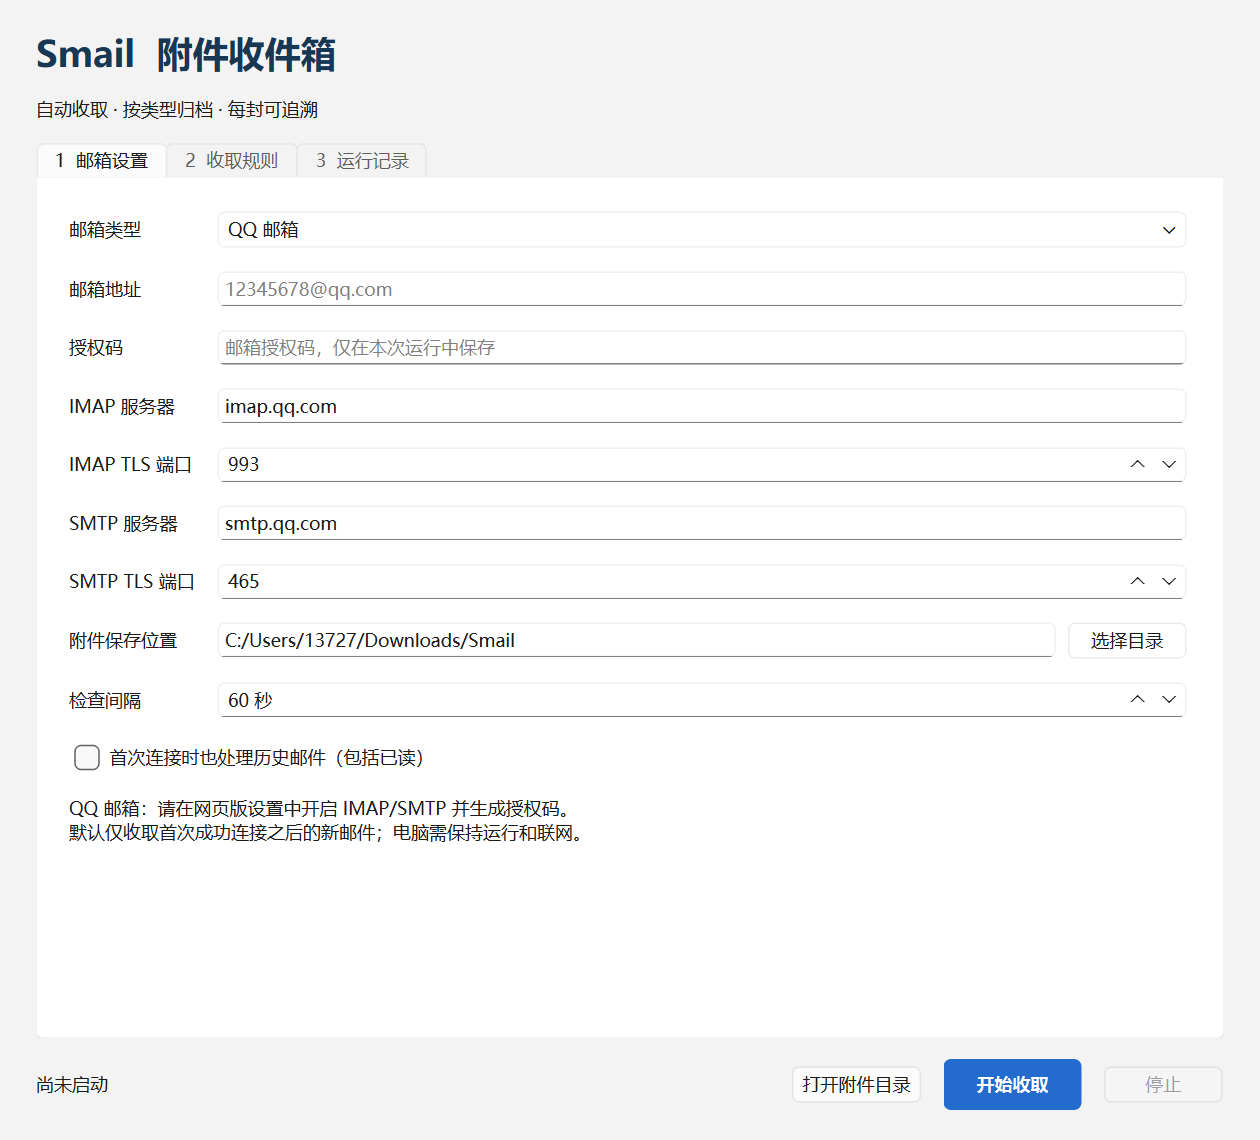
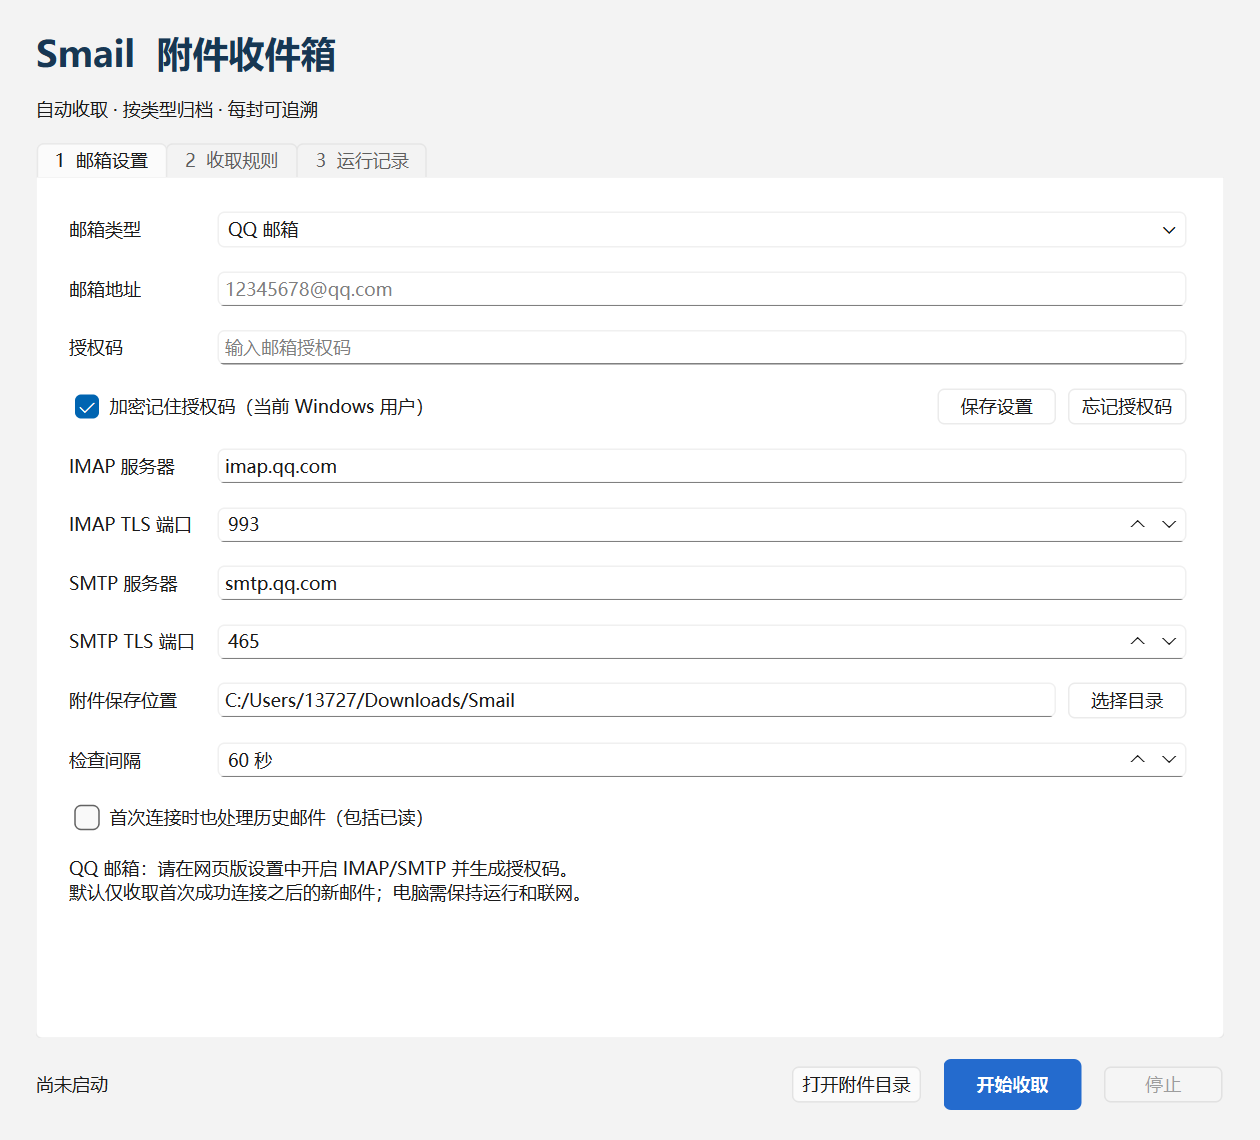
feat(credentials): persist mailbox secrets with user-scoped Windows DPAPI

diff --git a/src/app/MainWindow.cpp b/src/app/MainWindow.cpp
@@ -1,6 +1,7 @@
 #include "smail/MainWindow.h"
 #include "smail/Collector.h"
 #include "smail/Store.h"
+#include "smail/CredentialStore.h"
 #include <QApplication>
 #include <QCheckBox>
 #include <QCloseEvent>
@@ -53,7 +54,15 @@ MainWindow::MainWindow(QString dir) : dataDir(std::move(dir)) {
     form->setContentsMargins(20,20,20,20); form->setSpacing(14);
     provider = new QComboBox; provider->addItems({"QQ 邮箱", "自定义 IMAP / SMTP"});
     email = new QLineEdit; email->setPlaceholderText("12345678@qq.com");
-    secret = new QLineEdit; secret->setEchoMode(QLineEdit::Password); secret->setPlaceholderText("邮箱授权码，仅在本次运行中保存");
+    secret = new QLineEdit; secret->setEchoMode(QLineEdit::Password); secret->setPlaceholderText("输入邮箱授权码");
+    rememberSecret = new QCheckBox("加密记住授权码（当前 Windows 用户）");
+    rememberSecret->setEnabled(CredentialStore::supported());
+    auto *saveSecret = new QPushButton("保存设置");
+    auto *forgetSecret = new QPushButton("忘记授权码");
+    auto *credentialRow = new QWidget; auto *credentialLayout = new QHBoxLayout(credentialRow);
+    credentialLayout->setContentsMargins(0,0,0,0);
+    credentialLayout->addWidget(rememberSecret,1);
+    credentialLayout->addWidget(saveSecret); credentialLayout->addWidget(forgetSecret);
     imap = new QLineEdit; smtp = new QLineEdit; imapPort = spin(1,65535); smtpPort = spin(1,65535);
     output = new QLineEdit; auto *browse = new QPushButton("选择目录");
     auto *folderRow = new QWidget; auto *folderLayout = new QHBoxLayout(folderRow);
@@ -61,6 +70,7 @@ MainWindow::MainWindow(QString dir) : dataDir(std::move(dir)) {
     interval = spin(15,3600); interval->setSuffix(" 秒");
     existing = new QCheckBox("首次连接时也处理历史邮件（包括已读）");
     form->addRow("邮箱类型",provider); form->addRow("邮箱地址",email); form->addRow("授权码",secret);
+    form->addRow(credentialRow);
     form->addRow("IMAP 服务器",imap); form->addRow("IMAP TLS 端口",imapPort);
     form->addRow("SMTP 服务器",smtp); form->addRow("SMTP TLS 端口",smtpPort);
     form->addRow("附件保存位置",folderRow); form->addRow("检查间隔",interval); form->addRow(existing);
@@ -121,6 +131,31 @@ MainWindow::MainWindow(QString dir) : dataDir(std::move(dir)) {
     connect(reply,&QCheckBox::toggled,rejection,&QWidget::setEnabled);
     try { fill(Config::load(dataDir+"/settings.json")); }
     catch (const std::exception &e) { fill(Config{}); appendLog(QString::fromUtf8(e.what())); }
+    loadSecret();
+    // Clear any credential before switching account/server, so it is never
+    // accidentally submitted to a newly configured endpoint.
+    for (auto *field : {email, imap, smtp})
+        connect(field,&QLineEdit::textChanged,this,&MainWindow::loadSecret);
+    for (auto *field : {imapPort, smtpPort})
+        connect(field,&QSpinBox::valueChanged,this,&MainWindow::loadSecret);
+    connect(saveSecret,&QPushButton::clicked,this,[this] {
+        auto c = readConfig();
+        auto error = c.validate();
+        if (output->text().trimmed().isEmpty()) error = "请选择附件保存目录。";
+        if (!error.isEmpty()) { QMessageBox::warning(this,"配置需要调整",error); return; }
+        try {
+            persistSettings(c);
+            appendLog(c.rememberSecret ? "设置已保存，授权码已加密保存" : "设置已保存，授权码仅供本次使用");
+        } catch (const std::exception &e) { QMessageBox::warning(this,"保存失败",QString::fromUtf8(e.what())); }
+    });
+    connect(forgetSecret,&QPushButton::clicked,this,[this] {
+        try {
+            CredentialStore(dataDir+"/credentials").remove(readConfig());
+            secret->clear(); rememberSecret->setChecked(false);
+            readConfig().save(dataDir+"/settings.json");
+            appendLog("已删除当前邮箱的已保存授权码");
+        } catch (const std::exception &e) { QMessageBox::warning(this,"操作失败",QString::fromUtf8(e.what())); }
+    });
     refreshHistory();
 }
 MainWindow::~MainWindow() { if (collector) { collector->requestInterruption(); collector->wait(); } }
@@ -133,6 +168,7 @@ void MainWindow::fill(const Config &c) {
     mimeTypes->setText(c.mimeTypes.join(",")); strict->setChecked(c.strict); inlineImages->setChecked(c.inlineImages);
     existing->setChecked(c.includeExisting); reply->setChecked(c.reply); rejection->setPlainText(c.rejection);
     rejection->setEnabled(c.reply); attachmentSize->setValue(c.maxAttachmentMb); messageSize->setValue(c.maxMessageMb);
+    rememberSecret->setChecked(CredentialStore::supported() && c.rememberSecret);
 }
 Config MainWindow::readConfig() const {
     Config c; c.email = email->text().trimmed(); c.secret = secret->text();
@@ -141,6 +177,7 @@ Config MainWindow::readConfig() const {
     c.interval = interval->value(); c.extensions = tokens(extensions->text()); c.mimeTypes = tokens(mimeTypes->text());
     c.strict = strict->isChecked(); c.inlineImages = inlineImages->isChecked(); c.includeExisting = existing->isChecked();
     c.reply = reply->isChecked(); c.rejection = rejection->toPlainText();
+    c.rememberSecret = rememberSecret->isChecked();
     c.maxAttachmentMb = attachmentSize->value(); c.maxMessageMb = messageSize->value(); return c;
 }
 void MainWindow::begin() {
@@ -151,7 +188,7 @@ void MainWindow::begin() {
     if (!error.isEmpty()) { QMessageBox::warning(this,"配置需要调整",error); return; }
     try {
         if (!QDir().mkpath(c.outputDir)) fail("无法创建附件目录");
-        c.save(dataDir+"/settings.json");
+        persistSettings(c);
     } catch (const std::exception &e) { QMessageBox::warning(this,"无法开始",QString::fromUtf8(e.what())); return; }
     collector = new Collector(c,dataDir+"/history.sqlite",this);
     connect(collector,&Collector::activity,this,&MainWindow::appendLog);
@@ -167,6 +204,18 @@ void MainWindow::begin() {
     });
     tabs->setTabEnabled(0,false); tabs->setTabEnabled(1,false); tabs->setCurrentIndex(2);
     start->setEnabled(false); stop->setEnabled(true); collector->start();
+}
+void MainWindow::loadSecret() {
+    secret->clear();
+    if (!rememberSecret->isChecked() || email->text().trimmed().isEmpty()) return;
+    try { secret->setText(CredentialStore(dataDir+"/credentials").load(readConfig())); }
+    catch (const std::exception &e) { appendLog(QString::fromUtf8(e.what())); }
+}
+void MainWindow::persistSettings(const Config &c) {
+    CredentialStore credentials(dataDir+"/credentials");
+    if (c.rememberSecret) credentials.save(c);
+    else credentials.remove(c);
+    c.save(dataDir+"/settings.json");
 }
 void MainWindow::appendLog(const QString &message) {
     QString clean = message; clean.replace('\r',' '); clean.replace('\n',' ');

diff --git a/src/core/CredentialStore.cpp b/src/core/CredentialStore.cpp
@@ -1,0 +1,83 @@
+#include "smail/CredentialStore.h"
+#include <QCryptographicHash>
+#include <QDir>
+#include <QFile>
+#include <QFileInfo>
+#include <QSaveFile>
+#ifdef Q_OS_WIN
+#ifndef NOMINMAX
+#define NOMINMAX
+#endif
+#include <windows.h>
+#include <dpapi.h>
+#endif
+
+namespace smail {
+CredentialStore::CredentialStore(QString dir) : directory(std::move(dir)) {}
+bool CredentialStore::supported() {
+#ifdef Q_OS_WIN
+    return true;
+#else
+    return false;
+#endif
+}
+QByteArray CredentialStore::scope(const Config &c) const {
+    return ("Smail/credential/v1\n" + c.email.trimmed().toLower() + "\n" +
+        c.imapHost.toLower() + ":" + QString::number(c.imapPort) + "\n" +
+        c.smtpHost.toLower() + ":" + QString::number(c.smtpPort)).toUtf8();
+}
+QString CredentialStore::path(const Config &c) const {
+    return QDir(directory).filePath(QString::fromLatin1(
+        QCryptographicHash::hash(scope(c), QCryptographicHash::Sha256).toHex()) + ".dpapi");
+}
+void CredentialStore::save(const Config &c) const {
+    if (c.secret.isEmpty() || c.secret.size() > 8192) fail("授权码为空或长度超限");
+#ifdef Q_OS_WIN
+    QByteArray plain = c.secret.toUtf8(), entropy = scope(c);
+    DATA_BLOB in{DWORD(plain.size()), reinterpret_cast<BYTE *>(plain.data())};
+    DATA_BLOB extra{DWORD(entropy.size()), reinterpret_cast<BYTE *>(entropy.data())};
+    DATA_BLOB out{};
+    BOOL ok = CryptProtectData(&in, L"Smail mailbox credential", &extra, nullptr, nullptr,
+                              CRYPTPROTECT_UI_FORBIDDEN, &out);
+    DWORD error = ok ? ERROR_SUCCESS : GetLastError();
+    SecureZeroMemory(plain.data(), SIZE_T(plain.size()));
+    if (!ok) fail(QString("Windows 加密授权码失败（系统错误 %1），未保存明文").arg(error));
+    QByteArray encrypted(reinterpret_cast<const char *>(out.pbData), out.cbData);
+    LocalFree(out.pbData);
+    if (!QDir().mkpath(directory)) fail("无法创建加密凭据目录");
+    if (QFileInfo(path(c)).isSymLink()) fail("凭据路径不可为符号链接");
+    QSaveFile f(path(c));
+    if (!f.open(QIODevice::WriteOnly) || f.write(encrypted) != encrypted.size() || !f.commit())
+        fail("加密授权码保存失败");
+#else
+    Q_UNUSED(c)
+    fail("当前平台尚不支持加密保存授权码");
+#endif
+}
+QString CredentialStore::load(const Config &c) const {
+    QFile f(path(c));
+    if (!f.exists()) return {};
+#ifdef Q_OS_WIN
+    if (QFileInfo(f).isSymLink() || !f.open(QIODevice::ReadOnly) || f.size() > 65536)
+        fail("无法读取加密授权码，请重新输入并保存");
+    QByteArray encrypted = f.readAll(), entropy = scope(c);
+    DATA_BLOB in{DWORD(encrypted.size()), reinterpret_cast<BYTE *>(encrypted.data())};
+    DATA_BLOB extra{DWORD(entropy.size()), reinterpret_cast<BYTE *>(entropy.data())};
+    DATA_BLOB out{};
+    if (!CryptUnprotectData(&in, nullptr, &extra, nullptr, nullptr, CRYPTPROTECT_UI_FORBIDDEN, &out))
+        fail("授权码解密失败，可能已损坏或 Windows 用户已改变；请重新输入并保存");
+    QString result = QString::fromUtf8(reinterpret_cast<const char *>(out.pbData), out.cbData);
+    SecureZeroMemory(out.pbData, out.cbData);
+    LocalFree(out.pbData);
+    return result;
+#else
+    fail("当前平台无法解密 Windows 授权码");
+    return {};
+#endif
+}
+void CredentialStore::remove(const Config &c) const {
+    QString file = path(c);
+    if ((QFileInfo::exists(file) || QFileInfo(file).isSymLink()) && !QFile::remove(file))
+        fail("删除已保存授权码失败");
+}
+}

diff --git a/tests/qt/CoreTest.cpp b/tests/qt/CoreTest.cpp
@@ -2,6 +2,7 @@
 #include "smail/Mime.h"
 #include "smail/Store.h"
 #include "smail/MailClient.h"
+#include "smail/CredentialStore.h"
 #include <QtTest>
 #include <QTemporaryDir>
 #include <QFile>
@@ -83,6 +84,51 @@ private slots:
         QFile f(temp.path()+"/config.json"); QVERIFY(f.open(QIODevice::ReadOnly)); QVERIFY(!f.readAll().contains("sensitive"));
         auto loaded=Config::load(temp.path()+"/config.json"); QVERIFY(loaded.secret.isEmpty()); QCOMPARE(loaded.email,c.email);
         c.maxMessageMb=1; QVERIFY(!c.validate().isEmpty());
+    }
+    void encryptedCredentialsPersistAndForget() {
+        try {
+        if (!CredentialStore::supported()) QSKIP("DPAPI requires Windows");
+        QTemporaryDir temp;
+        Config c; c.email="test@qq.com"; c.secret="test-only-credential-测试";
+        {
+            CredentialStore store(temp.path());
+            QVERIFY(store.load(c).isEmpty());
+            store.save(c);
+        }
+        CredentialStore reopened(temp.path());
+        QCOMPARE(reopened.load(c),c.secret);
+        const auto files = QDir(temp.path()).entryList({"*.dpapi"},QDir::Files);
+        QCOMPARE(files.size(),1);
+        QFile blob(QDir(temp.path()).filePath(files.first()));
+        QVERIFY(blob.open(QIODevice::ReadOnly));
+        QVERIFY(!blob.readAll().contains(c.secret.toUtf8())); blob.close();
+        auto changed = c; changed.smtpHost="another.example.com";
+        QVERIFY(reopened.load(changed).isEmpty());
+        c.secret="replacement-test-only";
+        reopened.save(c); QCOMPARE(reopened.load(c),c.secret);
+        reopened.remove(c); QVERIFY(reopened.load(c).isEmpty());
+        reopened.remove(c); // Forget is idempotent.
+        } catch (const std::exception &e) { QFAIL(e.what()); }
+    }
+    void encryptedCredentialsRejectTamperingAndWrongScope() {
+        try {
+        if (!CredentialStore::supported()) QSKIP("DPAPI requires Windows");
+        QTemporaryDir temp;
+        CredentialStore store(temp.path());
+        Config c; c.email="first@qq.com"; c.secret="first-test";
+        store.save(c);
+        QString first = QDir(temp.path()).entryList({"*.dpapi"},QDir::Files).first();
+        QFile original(QDir(temp.path()).filePath(first));
+        QVERIFY(original.open(QIODevice::ReadOnly)); QByteArray data=original.readAll(); original.close();
+        Config other=c; other.email="second@qq.com"; other.secret="second-test"; store.save(other);
+        auto names=QDir(temp.path()).entryList({"*.dpapi"},QDir::Files); names.removeAll(first);
+        QCOMPARE(names.size(),1);
+        QFile swapped(QDir(temp.path()).filePath(names.first()));
+        QVERIFY(swapped.open(QIODevice::WriteOnly)); QCOMPARE(swapped.write(data),data.size()); swapped.close();
+        QVERIFY_EXCEPTION_THROWN(store.load(other),std::runtime_error);
+        QVERIFY(original.open(QIODevice::WriteOnly)); original.write("corrupted"); original.close();
+        QVERIFY_EXCEPTION_THROWN(store.load(c),std::runtime_error);
+        } catch (const std::exception &e) { QFAIL(e.what()); }
     }
     void searchSemantics() {
         QCOMPARE(MailClient::parseSearch("* SEARCH 8 1 4 8\r\n",3),QVector<quint64>({4,8}));

diff --git a/src/core/Config.cpp b/src/core/Config.cpp
@@ -36,7 +36,7 @@ void Config::save(const QString &path) const {
         {"interval", interval}, {"maxAttachmentMb", maxAttachmentMb}, {"maxMessageMb", maxMessageMb},
         {"extensions", QJsonArray::fromStringList(extensions)}, {"mimeTypes", QJsonArray::fromStringList(mimeTypes)},
         {"strict", strict}, {"inlineImages", inlineImages}, {"includeExisting", includeExisting},
-        {"reply", reply}, {"rejection", rejection}};
+        {"reply", reply}, {"rejection", rejection}, {"rememberSecret", rememberSecret}};
     QSaveFile f(path);
     const auto data = QJsonDocument(o).toJson();
     if (!f.open(QIODevice::WriteOnly) || f.write(data) != data.size() || !f.commit()) fail("无法保存配置");
@@ -60,6 +60,7 @@ Config Config::load(const QString &path) {
     c.strict = o["strict"].toBool(); c.inlineImages = o["inlineImages"].toBool();
     c.includeExisting = o["includeExisting"].toBool(); c.reply = o["reply"].toBool();
     c.rejection = o["rejection"].toString(c.rejection);
+    c.rememberSecret = o["rememberSecret"].toBool(true);
     return c;
 }
 }

diff --git a/include/smail/MainWindow.h b/include/smail/MainWindow.h
@@ -23,7 +23,7 @@ private:
     QString dataDir;
     QLineEdit *email, *secret, *output, *imap, *smtp, *extensions, *mimeTypes;
     QSpinBox *imapPort, *smtpPort, *interval, *attachmentSize, *messageSize;
-    QCheckBox *strict, *inlineImages, *existing, *reply;
+    QCheckBox *strict, *inlineImages, *existing, *reply, *rememberSecret;
     QComboBox *provider;
     QPlainTextEdit *rejection, *log, *history;
     QPushButton *start, *stop;
@@ -36,5 +36,7 @@ private:
     void begin();
     void appendLog(const QString &message);
     void refreshHistory();
+    void loadSecret();
+    void persistSettings(const Config &config);
 };
 }

diff --git a/include/smail/CredentialStore.h b/include/smail/CredentialStore.h
@@ -1,0 +1,18 @@
+#pragma once
+#include "smail/Config.h"
+
+namespace smail {
+// User-scoped Windows DPAPI. Unsupported platforms never fall back to plaintext.
+class CredentialStore {
+public:
+    explicit CredentialStore(QString directory);
+    static bool supported();
+    void save(const Config &config) const;
+    QString load(const Config &config) const;
+    void remove(const Config &config) const;
+private:
+    QString directory;
+    QByteArray scope(const Config &config) const;
+    QString path(const Config &config) const;
+};
+}

diff --git a/include/smail/Config.h b/include/smail/Config.h
@@ -13,6 +13,7 @@ struct Config {
     QStringList extensions = {"pdf", "doc", "docx", "xls", "xlsx", "ppt", "pptx", "jpg", "jpeg", "png"};
     QStringList mimeTypes;
     bool strict = false, inlineImages = false, includeExisting = false, reply = false;
+    bool rememberSecret = true;
     QString rejection = QStringLiteral("附件未被收取：{reason}。支持的类型：{allowed_types}。");
     QString validate() const;
     QString accountKey() const;

diff --git a/docs/qt-architecture.md b/docs/qt-architecture.md
@@ -5,13 +5,16 @@
 独立桌面工具，Qt 6 Widgets + C++17。窗口分为邮箱设置、
 收取规则、运行记录三个页签，底部提供开始/停止及运行状态。
 QQ 预设 IMAP 993 / SMTP 465；自定义服务器支持隐式 TLS、密码/授权码登录。
-授权码只保存在内存，配置文件不写密钥。先支持单账号，后续扩展 OAuth2 与凭据库。
+Windows 授权码默认通过当前用户范围的 DPAPI 加密持久保存，JSON 配置不写授权码，
+应用不内置加密密钥。其他平台暂只使用内存。先支持单账号，后续扩展 OAuth2。
 关闭窗口时如托盘可用则最小化到托盘；托盘菜单可恢复窗口或退出。
 
 ## 目录与依赖
 
 - `include/smail/`：公共接口及数据模型。
 - `src/core/`：配置、MIME、规则、SQLite 状态、附件落盘。
+- `CredentialStore`：以邮箱和 IMAP/SMTP 端点为范围保存 DPAPI 密文，支持读取、更新和删除；
+  使用相同范围作为 DPAPI 附加熵，防止跨账号替换密文；损坏时提示重新输入，不降级为明文。
 - `src/net/`：基于 QSslSocket 的 IMAP 与 SMTP 隐式 TLS 客户端。
 - `src/app/`：后台收取线程、Widgets 主窗口、托盘与进程入口。
 - `tests/qt/`：Qt Test 离线回归测试。
@@ -57,6 +60,6 @@ matching 保存匹配部分；strict 任一候选不匹配则整封拒收。
 
 ## 建议后续扩展
 
-系统凭据库、发件人白名单、归档规则与多账号优先；
+其他平台的系统凭据库、发件人白名单、归档规则与多账号优先；
 随后支持 OAuth2、开机启动、杀毒接口。首版轮询间隔默认 60 秒，
 网络故障退避到最多 15 分钟。电脑必须开机、联网且不休眠。
